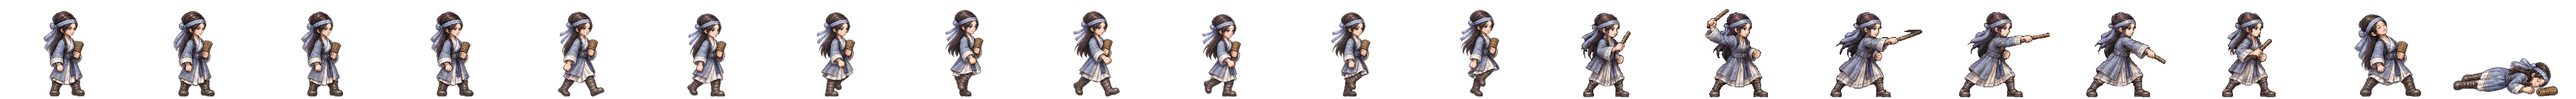
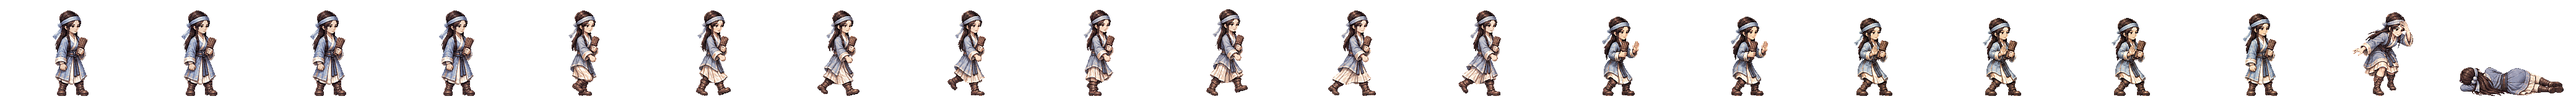
이서 시내 새 띠: 대나무 산가지 묶음을 쥐고 손바닥으로 기운을 미는 걷기·시전·개성·맞음·쓰러짐 (띠 검사 합격 · 옛 2배 띠 연결 뺌)
Claude-Session: https://claude.ai/code/session_01TRiuN7s6aDfSnaHxrkctmU

diff --git a/src/realm/data/spritePx.ts b/src/realm/data/spritePx.ts
@@ -1,3 +1,3 @@
 /** public/realm/anim-px/manifest.json 의 사본 — tools/sprite-normalize.mjs 가 만든다 (손으로 고치지 말 것). 칸 [가로, 세로] · feet = 발 줄(칸 위에서 y) · bodyPx = 서 있는 몸 키 */
 import { expandManifest } from './sprite-manifest.ts'
-export const SPRITE_PX: Readonly<Record<string, { readonly cell: readonly [number, number]; readonly feet: number; readonly bodyPx: number; readonly kind: 'general' | 'soldier' | 'folk' | 'crowd'; readonly cells: number }>> = expandManifest<{ readonly cell: readonly [number, number]; readonly feet: number; readonly bodyPx: number; readonly kind: 'general' | 'soldier' | 'folk' | 'crowd'; readonly cells: number }>([{"cell":[166,128],"feet":126,"bodyPx":124,"kind":"soldier","cells":20},{"cell":[116,128],"feet":126,"bodyPx":117,"kind":"soldier","cells":20},{"cell":[127,128],"feet":126,"bodyPx":116,"kind":"soldier","cells":20},{"cell":[269,128],"feet":126,"bodyPx":126,"kind":"soldier","cells":20},{"cell":[503,128],"feet":126,"bodyPx":127,"kind":"soldier","cells":20},{"cell":[614,128],"feet":126,"bodyPx":126,"kind":"soldier","cells":20},{"cell":[200,160],"feet":156,"bodyPx":138,"kind":"general","cells":20},{"cell":[208,160],"feet":155,"bodyPx":138,"kind":"general","cells":20},{"cell":[208,160],"feet":154,"bodyPx":138,"kind":"general","cells":20},{"cell":[304,160],"feet":155,"bodyPx":135,"kind":"general","cells":20},{"cell":[184,160],"feet":156,"bodyPx":138,"kind":"general","cells":20},{"cell":[208,160],"feet":154,"bodyPx":136,"kind":"general","cells":20},{"cell":[232,160],"feet":156,"bodyPx":138,"kind":"general","cells":20},{"cell":[208,160],"feet":156,"bodyPx":138,"kind":"general","cells":20},{"cell":[168,160],"feet":156,"bodyPx":124,"kind":"general","cells":20},{"cell":[216,160],"feet":156,"bodyPx":130,"kind":"general","cells":20},{"cell":[200,160],"feet":156,"bodyPx":116,"kind":"general","cells":20},{"cell":[192,160],"feet":156,"bodyPx":138,"kind":"general","cells":20},{"cell":[208,160],"feet":154,"bodyPx":135,"kind":"general","cells":20},{"cell":[280,160],"feet":156,"bodyPx":138,"kind":"general","cells":20},{"cell":[232,160],"feet":156,"bodyPx":134,"kind":"general","cells":20},{"cell":[144,160],"feet":156,"bodyPx":70,"kind":"general","cells":20},{"cell":[208,160],"feet":156,"bodyPx":70,"kind":"general","cells":20},{"cell":[192,160],"feet":156,"bodyPx":70,"kind":"general","cells":20},{"cell":[240,160],"feet":155,"bodyPx":138,"kind":"general","cells":20},{"cell":[192,160],"feet":156,"bodyPx":128,"kind":"general","cells":20},{"cell":[224,160],"feet":155,"bodyPx":138,"kind":"general","cells":20},{"cell":[208,160],"feet":154,"bodyPx":137,"kind":"general","cells":20},{"cell":[216,160],"feet":156,"bodyPx":138,"kind":"general","cells":20},{"cell":[208,160],"feet":156,"bodyPx":134,"kind":"general","cells":20},{"cell":[208,160],"feet":154,"bodyPx":130,"kind":"general","cells":20},{"cell":[248,160],"feet":156,"bodyPx":138,"kind":"general","cells":20},{"cell":[248,160],"feet":155,"bodyPx":138,"kind":"general","cells":20},{"cell":[192,160],"feet":155,"bodyPx":138,"kind":"general","cells":20},{"cell":[192,160],"feet":156,"bodyPx":124,"kind":"general","cells":20},{"cell":[208,160],"feet":154,"bodyPx":131,"kind":"general","cells":20},{"cell":[256,160],"feet":156,"bodyPx":138,"kind":"general","cells":20},{"cell":[240,160],"feet":156,"bodyPx":138,"kind":"general","cells":20},{"cell":[232,160],"feet":156,"bodyPx":139,"kind":"general","cells":20},{"cell":[232,160],"feet":156,"bodyPx":73,"kind":"general","cells":20},{"cell":[264,160],"feet":156,"bodyPx":138,"kind":"general","cells":20},{"cell":[224,160],"feet":156,"bodyPx":138,"kind":"general","cells":20},{"cell":[224,160],"feet":156,"bodyPx":128,"kind":"general","cells":20},{"cell":[176,160],"feet":156,"bodyPx":129,"kind":"general","cells":20},{"cell":[208,160],"feet":154,"bodyPx":139,"kind":"general","cells":20},{"cell":[232,160],"feet":155,"bodyPx":138,"kind":"general","cells":20},{"cell":[208,160],"feet":156,"bodyPx":132,"kind":"general","cells":20},{"cell":[184,160],"feet":156,"bodyPx":122,"kind":"general","cells":20},{"cell":[280,160],"feet":155,"bodyPx":133,"kind":"general","cells":20},{"cell":[176,160],"feet":156,"bodyPx":70,"kind":"general","cells":20},{"cell":[186,128],"feet":126,"bodyPx":127,"kind":"soldier","cells":20},{"cell":[298,128],"feet":126,"bodyPx":126,"kind":"soldier","cells":20},{"cell":[82,128],"feet":126,"bodyPx":114,"kind":"folk","cells":8},{"cell":[134,128],"feet":126,"bodyPx":119,"kind":"soldier","cells":20},{"cell":[380,128],"feet":126,"bodyPx":124,"kind":"soldier","cells":20},{"cell":[114,128],"feet":126,"bodyPx":115,"kind":"soldier","cells":20},{"cell":[122,128],"feet":126,"bodyPx":114,"kind":"soldier","cells":20},{"cell":[254,128],"feet":126,"bodyPx":128,"kind":"soldier","cells":20},{"cell":[438,128],"feet":126,"bodyPx":126,"kind":"soldier","cells":20},{"cell":[88,128],"feet":126,"bodyPx":113,"kind":"folk","cells":8},{"cell":[100,128],"feet":126,"bodyPx":115,"kind":"folk","cells":8},{"cell":[108,128],"feet":126,"bodyPx":115,"kind":"folk","cells":8},{"cell":[63,128],"feet":126,"bodyPx":113,"kind":"folk","cells":8},{"cell":[69,96],"feet":96,"bodyPx":96,"kind":"crowd","cells":1},{"cell":[54,96],"feet":96,"bodyPx":96,"kind":"crowd","cells":1},{"cell":[47,96],"feet":96,"bodyPx":96,"kind":"crowd","cells":1},{"cell":[49,96],"feet":96,"bodyPx":96,"kind":"crowd","cells":1},{"cell":[57,96],"feet":96,"bodyPx":96,"kind":"crowd","cells":1},{"cell":[55,96],"feet":96,"bodyPx":96,"kind":"crowd","cells":1},{"cell":[45,96],"feet":96,"bodyPx":96,"kind":"crowd","cells":1},{"cell":[53,96],"feet":96,"bodyPx":96,"kind":"crowd","cells":1},{"cell":[64,96],"feet":96,"bodyPx":96,"kind":"crowd","cells":1},{"cell":[184,160],"feet":156,"bodyPx":124,"kind":"general","cells":20},{"cell":[208,160],"feet":154,"bodyPx":134,"kind":"general","cells":20},{"cell":[224,160],"feet":156,"bodyPx":133,"kind":"general","cells":20},{"cell":[192,160],"feet":156,"bodyPx":135,"kind":"general","cells":20},{"cell":[184,160],"feet":156,"bodyPx":137,"kind":"general","cells":20},{"cell":[176,160],"feet":156,"bodyPx":130,"kind":"general","cells":20},{"cell":[216,160],"feet":156,"bodyPx":134,"kind":"general","cells":20},{"cell":[216,160],"feet":156,"bodyPx":132,"kind":"general","cells":20},{"cell":[288,160],"feet":156,"bodyPx":138,"kind":"general","cells":20},{"cell":[192,160],"feet":156,"bodyPx":118,"kind":"general","cells":20},{"cell":[208,160],"feet":154,"bodyPx":132,"kind":"general","cells":20},{"cell":[208,160],"feet":154,"bodyPx":128,"kind":"general","cells":20},{"cell":[240,160],"feet":156,"bodyPx":128,"kind":"general","cells":20},{"cell":[184,160],"feet":156,"bodyPx":132,"kind":"general","cells":20},{"cell":[208,160],"feet":156,"bodyPx":123,"kind":"general","cells":20},{"cell":[176,160],"feet":156,"bodyPx":116,"kind":"general","cells":20},{"cell":[272,160],"feet":156,"bodyPx":138,"kind":"general","cells":20},{"cell":[176,160],"feet":156,"bodyPx":138,"kind":"general","cells":20},{"cell":[176,160],"feet":156,"bodyPx":122,"kind":"general","cells":20},{"cell":[232,160],"feet":156,"bodyPx":127,"kind":"general","cells":20},{"cell":[184,160],"feet":156,"bodyPx":134,"kind":"general","cells":20},{"cell":[168,160],"feet":156,"bodyPx":138,"kind":"general","cells":20},{"cell":[176,160],"feet":156,"bodyPx":137,"kind":"general","cells":20},{"cell":[184,160],"feet":156,"bodyPx":133,"kind":"general","cells":20}],[["axe",0],["bandit-chief",1],["bandit-club",2],["boat",3],["bow",4],["crossbow",5],["gen-adogan",6],["gen-alpyeong",7],["gen-ara",8],["gen-areum",8],["gen-aryeong",9],["gen-bakdal",8],["gen-baram",8],["gen-bdanbi",10],["gen-beom",11],["gen-beombal",8],["gen-beomi",8],["gen-bira",12],["gen-biryu",13],["gen-budeul",8],["gen-byeol",8],["gen-daemusin",14],["gen-daeso",15],["gen-dallae2",10],["gen-dalli",8],["gen-damul",16],["gen-danbi",8],["gen-dangung",17],["gen-darae",18],["gen-dokmudeom",8],["gen-duman",19],["gen-eomni",8],["gen-eureum",20],["gen-g-bow",21],["gen-g-spear",22],["gen-g-sword",23],["gen-gaennae",8],["gen-gamsil",24],["gen-gaon",18],["gen-geota",13],["gen-geumbawi",10],["gen-geumha",25],["gen-goeun",13],["gen-gom",26],["gen-gomok",13],["gen-gureum",8],["gen-guryema",17],["gen-gwaeyu",12],["gen-haebi",8],["gen-haedal",6],["gen-haesol",8],["gen-halla",27],["gen-heo",8],["gen-hneoul",10],["gen-hogong",28],["gen-hojin",13],["gen-horselord",29],["gen-hwalmi",30],["gen-hyeokgeose",17],["gen-hyeopbo",6],["gen-irang",8],["gen-jibaekho",31],["gen-jinha",32],["gen-jita",33],["gen-jumong",34],["gen-keundol",7],["gen-maehwa",35],["gen-maenun",17],["gen-malgalgi",36],["gen-mari",37],["gen-maro",31],["gen-maryeo",13],["gen-mdallae",38],["gen-mir",6],["gen-mount",39],["gen-mulbeom",27],["gen-mulsae",27],["gen-musoe",28],["gen-noeul",8],["gen-nuri",40],["gen-ocheongan",41],["gen-odi",8],["gen-odogan",6],["gen-ogan",17],["gen-oi",42],["gen-olddaeso",20],["gen-onjo",43],["gen-pidogan",13],["gen-sagong",44],["gen-sdallae",6],["gen-sincheongan",8],["gen-singwigan",28],["gen-sinneoul",8],["gen-sobeol",45],["gen-soebi",6],["gen-soebo",46],["gen-soenun",44],["gen-sogeumbi",27],["gen-songbi",41],["gen-songyang",47],["gen-sori",8],["gen-soseono",48],["gen-suro",17],["gen-tahae",6],["gen-tneoul",8],["gen-w-bow",21],["gen-w-spear",49],["gen-waechief",13],["gen-wan",28],["gen-yeodogan",13],["gen-yucheongan",8],["gen-yusugan",31],["horse",50],["marine",51],["migrant",52],["militia",53],["pike",54],["pirate-captain",55],["pirate-sword",56],["shield",57],["spear",58],["villager-builder",59],["villager-farmer",60],["villager-porter",61],["villager-woman",62],["crowd-b1",63],["crowd-b2",64],["crowd-b3",65],["crowd-b4",66],["crowd-b5",67],["crowd-b6",68],["crowd-f1",63],["crowd-f2",68],["crowd-f3",69],["crowd-f4",70],["crowd-f5",63],["crowd-f6",71],["gen-dalbit",13],["gen-base-g-07-drunk-warrior",17],["gen-base-g-40-anya-adan",13],["gen-base-w-13-young-archer",8],["gen-base-g-03-sea-trader",37],["gen-base-w-10-pirate-captain",44],["gen-base-w-64-miri-dallae",44],["gen-base-g-41-goja-bau",37],["gen-base-g-42-dokro-garam",40],["gen-base-g-09-farmer-conscript",28],["gen-base-w-02-goguryeo-lady",8],["gen-base-w-17-mahan-pearl-diver",8],["gen-base-g-17-saro-isageum",46],["gen-base-g-18-daegaya-king",72],["gen-base-g-35-dabeol-dalgu",13],["gen-base-g-19-sabeol-veteran",28],["gen-base-w-23-usisan-whale-queen",8],["gen-base-g-36-gammun-gamdol",41],["gen-base-g-20-samul-sea-lord",36],["gen-base-g-37-eumjeup-jeup",10],["gen-base-g-38-chopal-palmae",17],["gen-base-w-75-daegaya-soemoe",17],["gen-base-g-45-dabeol-deulgae",10],["gen-base-g-04-jinhan-giant",13],["gen-base-g-08-veteran",13],["gen-base-w-18-jinhan-salt-widow",8],["gen-base-w-12-court-dancer",73],["gen-base-w-83-gyeonji-beodeul",74],["gen-base-w-05-baekje-queen",75],["gen-base-w-21-baekje-court-dancer",10],["gen-base-g-01-master-smith",76],["gen-base-g-93-jomun-solgae",77],["gen-base-g-57-bihwa-neup",37],["gen-base-w-72-eumjeup-beol",8],["gen-base-w-102-garak-dana",44],["gen-base-g-68-baekje-onnuri",13],["gen-base-w-27-mokji-jinha",6],["gen-base-g-22-ungcheon-gomnae",6],["gen-base-g-23-sangdang-soedal",13],["gen-base-g-24-wansan-onsan",6],["gen-base-g-25-balla-keunmoe",28],["gen-base-g-61-heomcheuk-bawi",28],["gen-base-g-88-wander-soeul",41],["gen-base-w-14-feast-spy",8],["gen-base-g-12-silla-youth",78],["gen-base-w-08-mahan-warrior",8],["gen-base-g-62-beonye-hanul",37],["gen-base-g-63-heomcheuk-beogeum",13],["gen-base-g-84-wander-seoneul",13],["gen-base-w-50-siljik-mulga",28],["gen-base-g-46-uga-nureongso",28],["gen-base-w-80-usan-gangchi",44],["gen-base-g-47-guga-sanyanggae",28],["gen-base-w-76-gampyeong-baetsagong",8],["gen-base-g-05-mahan-chieftain",79],["gen-base-g-58-usan-uhae",13],["gen-base-g-27-maek-maekdol",13],["gen-base-w-53-hwanna-gabi",44],["gen-base-w-29-golpo-janmul",31],["gen-base-g-53-baekje-haeru",6],["gen-base-w-71-yeonna-neoul",8],["gen-base-w-79-yangmaek-solmae",8],["gen-base-w-34-chopal-deulme",8],["gen-base-g-44-maga-malgup",80],["gen-base-w-31-dabeol-dalbit",44],["gen-base-g-51-biryuna-mulgyeol",41],["gen-base-g-48-gwanna-musoe",13],["gen-base-g-32-uga-sodu",12],["gen-base-g-49-goguryeo-sona",81],["gen-base-g-30-gwanna-soemoe",41],["gen-base-g-52-tamna-oreum",10],["gen-base-g-29-yeonna-myeongsol",34],["gen-base-w-56-dongokjeo-sogeum",73],["gen-base-g-54-mokji-mahan",12],["gen-base-g-33-jeoga-metdol",17],["gen-base-w-36-baekje-maena",8],["gen-base-w-38-sangdang-bulmae",6],["gen-base-w-39-gosaburi-galmae",8],["gen-base-w-40-mujin-munui",82],["gen-base-w-41-hwanna-beodeul",83],["gen-base-w-43-uga-nuri",36],["gen-base-w-45-tamna-oreumbi",10],["gen-base-g-60-golbeol-golgae",10],["gen-base-g-61-apdok-ap",28],["gen-base-g-62-gammun-gamnamu",6],["gen-base-g-63-chopal-yeoul",31],["gen-base-g-64-michuhol-sogeumkkun",37],["gen-base-g-65-sangdang-soemangchi",41],["gen-base-g-66-geonma-malbalgup",84],["gen-base-g-67-gosaburi-buri",85],["gen-base-g-68-mujin-bitgoeul",10],["gen-base-g-69-goryong-yong",41],["gen-base-g-70-siljik-pado",37],["gen-base-w-81-byeokjin-byeolbit",8],["gen-base-w-46-geonma-maru",8],["gen-base-w-48-mujin-mudeung",8],["gen-base-g-26-gampyeong-gaetbeol",12],["gen-base-g-60-eupcha-hangyeol",86],["gen-base-g-15-shaman-man",28],["gen-base-g-85-wander-ure",31],["gen-base-g-43-hwanna-amnok",13],["gen-base-g-50-bullae-gwaha",75],["gen-base-g-55-saro-bakdal",13],["gen-base-g-56-haseulla-gwahama",6],["gen-base-w-06-buyeo-huntress",27],["gen-base-w-22-dongye-tiger-huntress",8],["gen-base-w-25-bihwa-priestess",8],["gen-base-w-24-apdok-queen",8],["gen-base-w-61-iseo-sinae",13],["gen-base-w-26-iseo-tomboy-general",8],["gen-base-g-59-yangmaek-maekson",87],["gen-aw1-haebi",41],["gen-aw1-soseono",88],["gen-aw1-gamsil",10],["gen-aw1-mir",89],["gen-aw1-dangung",6],["gen-aw1-ara",41],["gen-aw1-jumong",90],["gen-aw1-onjo",91],["gen-aw1-base-w-83-gyeonji-beodeul",17],["gen-aw1-heo",40],["gen-aw1-base-g-38-chopal-palmae",6],["gen-aw1-base-w-25-bihwa-priestess",92],["gen-aw1-sori",93],["gen-aw1-gomok",6],["gen-aw1-irang",17],["gen-aw1-budeul",93],["gen-aw1-gom",37],["gen-aw1-sdallae",6],["gen-aw1-base-w-13-young-archer",6],["gen-aw1-base-w-36-baekje-maena",94],["gen-aw1-base-g-09-farmer-conscript",40],["gen-aw1-base-w-02-goguryeo-lady",95],["gen-aw1-haedal",10],["gen-aw1-hogong",6],["gen-aw1-maehwa",89],["gen-aw1-base-w-06-buyeo-huntress",12],["gen-aw1-base-w-08-mahan-warrior",41],["gen-aw1-base-w-29-golpo-janmul",41],["gen-aw1-base-w-31-dabeol-dalbit",17],["gen-aw1-base-w-38-sangdang-bulmae",93],["gen-aw1-bira",28],["gen-aw1-base-w-53-hwanna-gabi",93],["gen-aw1-base-w-56-dongokjeo-sogeum",89],["gen-aw1-base-w-72-eumjeup-beol",17],["gen-aw1-bdanbi",93],["gen-aw1-beom",10],["gen-aw1-beombal",10],["gen-aw1-byeol",17],["gen-aw1-dalli",89],["gen-aw1-malgalgi",31],["gen-aw1-sincheongan",28]])
+export const SPRITE_PX: Readonly<Record<string, { readonly cell: readonly [number, number]; readonly feet: number; readonly bodyPx: number; readonly kind: 'general' | 'soldier' | 'folk' | 'crowd'; readonly cells: number }>> = expandManifest<{ readonly cell: readonly [number, number]; readonly feet: number; readonly bodyPx: number; readonly kind: 'general' | 'soldier' | 'folk' | 'crowd'; readonly cells: number }>([{"cell":[166,128],"feet":126,"bodyPx":124,"kind":"soldier","cells":20},{"cell":[116,128],"feet":126,"bodyPx":117,"kind":"soldier","cells":20},{"cell":[127,128],"feet":126,"bodyPx":116,"kind":"soldier","cells":20},{"cell":[269,128],"feet":126,"bodyPx":126,"kind":"soldier","cells":20},{"cell":[503,128],"feet":126,"bodyPx":127,"kind":"soldier","cells":20},{"cell":[614,128],"feet":126,"bodyPx":126,"kind":"soldier","cells":20},{"cell":[200,160],"feet":156,"bodyPx":138,"kind":"general","cells":20},{"cell":[208,160],"feet":155,"bodyPx":138,"kind":"general","cells":20},{"cell":[208,160],"feet":154,"bodyPx":138,"kind":"general","cells":20},{"cell":[304,160],"feet":155,"bodyPx":135,"kind":"general","cells":20},{"cell":[184,160],"feet":156,"bodyPx":138,"kind":"general","cells":20},{"cell":[208,160],"feet":154,"bodyPx":136,"kind":"general","cells":20},{"cell":[232,160],"feet":156,"bodyPx":138,"kind":"general","cells":20},{"cell":[208,160],"feet":156,"bodyPx":138,"kind":"general","cells":20},{"cell":[168,160],"feet":156,"bodyPx":124,"kind":"general","cells":20},{"cell":[216,160],"feet":156,"bodyPx":130,"kind":"general","cells":20},{"cell":[200,160],"feet":156,"bodyPx":116,"kind":"general","cells":20},{"cell":[192,160],"feet":156,"bodyPx":138,"kind":"general","cells":20},{"cell":[208,160],"feet":154,"bodyPx":135,"kind":"general","cells":20},{"cell":[280,160],"feet":156,"bodyPx":138,"kind":"general","cells":20},{"cell":[232,160],"feet":156,"bodyPx":134,"kind":"general","cells":20},{"cell":[144,160],"feet":156,"bodyPx":70,"kind":"general","cells":20},{"cell":[208,160],"feet":156,"bodyPx":70,"kind":"general","cells":20},{"cell":[192,160],"feet":156,"bodyPx":70,"kind":"general","cells":20},{"cell":[240,160],"feet":155,"bodyPx":138,"kind":"general","cells":20},{"cell":[192,160],"feet":156,"bodyPx":128,"kind":"general","cells":20},{"cell":[224,160],"feet":155,"bodyPx":138,"kind":"general","cells":20},{"cell":[208,160],"feet":154,"bodyPx":137,"kind":"general","cells":20},{"cell":[216,160],"feet":156,"bodyPx":138,"kind":"general","cells":20},{"cell":[208,160],"feet":156,"bodyPx":134,"kind":"general","cells":20},{"cell":[208,160],"feet":154,"bodyPx":130,"kind":"general","cells":20},{"cell":[248,160],"feet":156,"bodyPx":138,"kind":"general","cells":20},{"cell":[248,160],"feet":155,"bodyPx":138,"kind":"general","cells":20},{"cell":[192,160],"feet":155,"bodyPx":138,"kind":"general","cells":20},{"cell":[192,160],"feet":156,"bodyPx":124,"kind":"general","cells":20},{"cell":[208,160],"feet":154,"bodyPx":131,"kind":"general","cells":20},{"cell":[256,160],"feet":156,"bodyPx":138,"kind":"general","cells":20},{"cell":[240,160],"feet":156,"bodyPx":138,"kind":"general","cells":20},{"cell":[232,160],"feet":156,"bodyPx":139,"kind":"general","cells":20},{"cell":[232,160],"feet":156,"bodyPx":73,"kind":"general","cells":20},{"cell":[264,160],"feet":156,"bodyPx":138,"kind":"general","cells":20},{"cell":[224,160],"feet":156,"bodyPx":138,"kind":"general","cells":20},{"cell":[224,160],"feet":156,"bodyPx":128,"kind":"general","cells":20},{"cell":[176,160],"feet":156,"bodyPx":129,"kind":"general","cells":20},{"cell":[208,160],"feet":154,"bodyPx":139,"kind":"general","cells":20},{"cell":[232,160],"feet":155,"bodyPx":138,"kind":"general","cells":20},{"cell":[208,160],"feet":156,"bodyPx":132,"kind":"general","cells":20},{"cell":[184,160],"feet":156,"bodyPx":122,"kind":"general","cells":20},{"cell":[280,160],"feet":155,"bodyPx":133,"kind":"general","cells":20},{"cell":[176,160],"feet":156,"bodyPx":70,"kind":"general","cells":20},{"cell":[186,128],"feet":126,"bodyPx":127,"kind":"soldier","cells":20},{"cell":[298,128],"feet":126,"bodyPx":126,"kind":"soldier","cells":20},{"cell":[82,128],"feet":126,"bodyPx":114,"kind":"folk","cells":8},{"cell":[134,128],"feet":126,"bodyPx":119,"kind":"soldier","cells":20},{"cell":[380,128],"feet":126,"bodyPx":124,"kind":"soldier","cells":20},{"cell":[114,128],"feet":126,"bodyPx":115,"kind":"soldier","cells":20},{"cell":[122,128],"feet":126,"bodyPx":114,"kind":"soldier","cells":20},{"cell":[254,128],"feet":126,"bodyPx":128,"kind":"soldier","cells":20},{"cell":[438,128],"feet":126,"bodyPx":126,"kind":"soldier","cells":20},{"cell":[88,128],"feet":126,"bodyPx":113,"kind":"folk","cells":8},{"cell":[100,128],"feet":126,"bodyPx":115,"kind":"folk","cells":8},{"cell":[108,128],"feet":126,"bodyPx":115,"kind":"folk","cells":8},{"cell":[63,128],"feet":126,"bodyPx":113,"kind":"folk","cells":8},{"cell":[69,96],"feet":96,"bodyPx":96,"kind":"crowd","cells":1},{"cell":[54,96],"feet":96,"bodyPx":96,"kind":"crowd","cells":1},{"cell":[47,96],"feet":96,"bodyPx":96,"kind":"crowd","cells":1},{"cell":[49,96],"feet":96,"bodyPx":96,"kind":"crowd","cells":1},{"cell":[57,96],"feet":96,"bodyPx":96,"kind":"crowd","cells":1},{"cell":[55,96],"feet":96,"bodyPx":96,"kind":"crowd","cells":1},{"cell":[45,96],"feet":96,"bodyPx":96,"kind":"crowd","cells":1},{"cell":[53,96],"feet":96,"bodyPx":96,"kind":"crowd","cells":1},{"cell":[64,96],"feet":96,"bodyPx":96,"kind":"crowd","cells":1},{"cell":[184,160],"feet":156,"bodyPx":124,"kind":"general","cells":20},{"cell":[208,160],"feet":154,"bodyPx":134,"kind":"general","cells":20},{"cell":[224,160],"feet":156,"bodyPx":133,"kind":"general","cells":20},{"cell":[192,160],"feet":156,"bodyPx":135,"kind":"general","cells":20},{"cell":[184,160],"feet":156,"bodyPx":137,"kind":"general","cells":20},{"cell":[176,160],"feet":156,"bodyPx":130,"kind":"general","cells":20},{"cell":[216,160],"feet":156,"bodyPx":134,"kind":"general","cells":20},{"cell":[216,160],"feet":156,"bodyPx":132,"kind":"general","cells":20},{"cell":[288,160],"feet":156,"bodyPx":138,"kind":"general","cells":20},{"cell":[192,160],"feet":156,"bodyPx":118,"kind":"general","cells":20},{"cell":[208,160],"feet":154,"bodyPx":132,"kind":"general","cells":20},{"cell":[208,160],"feet":154,"bodyPx":128,"kind":"general","cells":20},{"cell":[240,160],"feet":156,"bodyPx":128,"kind":"general","cells":20},{"cell":[184,160],"feet":156,"bodyPx":132,"kind":"general","cells":20},{"cell":[208,160],"feet":156,"bodyPx":123,"kind":"general","cells":20},{"cell":[176,160],"feet":156,"bodyPx":116,"kind":"general","cells":20},{"cell":[272,160],"feet":156,"bodyPx":138,"kind":"general","cells":20},{"cell":[176,160],"feet":156,"bodyPx":138,"kind":"general","cells":20},{"cell":[176,160],"feet":156,"bodyPx":122,"kind":"general","cells":20},{"cell":[232,160],"feet":156,"bodyPx":127,"kind":"general","cells":20},{"cell":[184,160],"feet":156,"bodyPx":134,"kind":"general","cells":20},{"cell":[168,160],"feet":156,"bodyPx":138,"kind":"general","cells":20},{"cell":[176,160],"feet":156,"bodyPx":137,"kind":"general","cells":20},{"cell":[184,160],"feet":156,"bodyPx":133,"kind":"general","cells":20}],[["axe",0],["bandit-chief",1],["bandit-club",2],["boat",3],["bow",4],["crossbow",5],["gen-adogan",6],["gen-alpyeong",7],["gen-ara",8],["gen-areum",8],["gen-aryeong",9],["gen-bakdal",8],["gen-baram",8],["gen-bdanbi",10],["gen-beom",11],["gen-beombal",8],["gen-beomi",8],["gen-bira",12],["gen-biryu",13],["gen-budeul",8],["gen-byeol",8],["gen-daemusin",14],["gen-daeso",15],["gen-dallae2",10],["gen-dalli",8],["gen-damul",16],["gen-danbi",8],["gen-dangung",17],["gen-darae",18],["gen-dokmudeom",8],["gen-duman",19],["gen-eomni",8],["gen-eureum",20],["gen-g-bow",21],["gen-g-spear",22],["gen-g-sword",23],["gen-gaennae",8],["gen-gamsil",24],["gen-gaon",18],["gen-geota",13],["gen-geumbawi",10],["gen-geumha",25],["gen-goeun",13],["gen-gom",26],["gen-gomok",13],["gen-gureum",8],["gen-guryema",17],["gen-gwaeyu",12],["gen-haebi",8],["gen-haedal",6],["gen-haesol",8],["gen-halla",27],["gen-heo",8],["gen-hneoul",10],["gen-hogong",28],["gen-hojin",13],["gen-horselord",29],["gen-hwalmi",30],["gen-hyeokgeose",17],["gen-hyeopbo",6],["gen-irang",8],["gen-jibaekho",31],["gen-jinha",32],["gen-jita",33],["gen-jumong",34],["gen-keundol",7],["gen-maehwa",35],["gen-maenun",17],["gen-malgalgi",36],["gen-mari",37],["gen-maro",31],["gen-maryeo",13],["gen-mdallae",38],["gen-mir",6],["gen-mount",39],["gen-mulbeom",27],["gen-mulsae",27],["gen-musoe",28],["gen-noeul",8],["gen-nuri",40],["gen-ocheongan",41],["gen-odi",8],["gen-odogan",6],["gen-ogan",17],["gen-oi",42],["gen-olddaeso",20],["gen-onjo",43],["gen-pidogan",13],["gen-sagong",44],["gen-sdallae",6],["gen-sincheongan",8],["gen-singwigan",28],["gen-sinneoul",8],["gen-sobeol",45],["gen-soebi",6],["gen-soebo",46],["gen-soenun",44],["gen-sogeumbi",27],["gen-songbi",41],["gen-songyang",47],["gen-sori",8],["gen-soseono",48],["gen-suro",17],["gen-tahae",6],["gen-tneoul",8],["gen-w-bow",21],["gen-w-spear",49],["gen-waechief",13],["gen-wan",28],["gen-yeodogan",13],["gen-yucheongan",8],["gen-yusugan",31],["horse",50],["marine",51],["migrant",52],["militia",53],["pike",54],["pirate-captain",55],["pirate-sword",56],["shield",57],["spear",58],["villager-builder",59],["villager-farmer",60],["villager-porter",61],["villager-woman",62],["crowd-b1",63],["crowd-b2",64],["crowd-b3",65],["crowd-b4",66],["crowd-b5",67],["crowd-b6",68],["crowd-f1",63],["crowd-f2",68],["crowd-f3",69],["crowd-f4",70],["crowd-f5",63],["crowd-f6",71],["gen-dalbit",13],["gen-base-g-07-drunk-warrior",17],["gen-base-g-40-anya-adan",13],["gen-base-w-13-young-archer",8],["gen-base-g-03-sea-trader",37],["gen-base-w-10-pirate-captain",44],["gen-base-w-64-miri-dallae",44],["gen-base-g-41-goja-bau",37],["gen-base-g-42-dokro-garam",40],["gen-base-g-09-farmer-conscript",28],["gen-base-w-02-goguryeo-lady",8],["gen-base-w-17-mahan-pearl-diver",8],["gen-base-g-17-saro-isageum",46],["gen-base-g-18-daegaya-king",72],["gen-base-g-35-dabeol-dalgu",13],["gen-base-g-19-sabeol-veteran",28],["gen-base-w-23-usisan-whale-queen",8],["gen-base-g-36-gammun-gamdol",41],["gen-base-g-20-samul-sea-lord",36],["gen-base-g-37-eumjeup-jeup",10],["gen-base-g-38-chopal-palmae",17],["gen-base-w-75-daegaya-soemoe",17],["gen-base-g-45-dabeol-deulgae",10],["gen-base-g-04-jinhan-giant",13],["gen-base-g-08-veteran",13],["gen-base-w-18-jinhan-salt-widow",8],["gen-base-w-12-court-dancer",73],["gen-base-w-83-gyeonji-beodeul",74],["gen-base-w-05-baekje-queen",75],["gen-base-w-21-baekje-court-dancer",10],["gen-base-g-01-master-smith",76],["gen-base-g-93-jomun-solgae",77],["gen-base-g-57-bihwa-neup",37],["gen-base-w-72-eumjeup-beol",8],["gen-base-w-102-garak-dana",44],["gen-base-g-68-baekje-onnuri",13],["gen-base-w-27-mokji-jinha",6],["gen-base-g-22-ungcheon-gomnae",6],["gen-base-g-23-sangdang-soedal",13],["gen-base-g-24-wansan-onsan",6],["gen-base-g-25-balla-keunmoe",28],["gen-base-g-61-heomcheuk-bawi",28],["gen-base-g-88-wander-soeul",41],["gen-base-w-14-feast-spy",8],["gen-base-g-12-silla-youth",78],["gen-base-w-08-mahan-warrior",8],["gen-base-g-62-beonye-hanul",37],["gen-base-g-63-heomcheuk-beogeum",13],["gen-base-g-84-wander-seoneul",13],["gen-base-w-50-siljik-mulga",28],["gen-base-g-46-uga-nureongso",28],["gen-base-w-80-usan-gangchi",44],["gen-base-g-47-guga-sanyanggae",28],["gen-base-w-76-gampyeong-baetsagong",8],["gen-base-g-05-mahan-chieftain",79],["gen-base-g-58-usan-uhae",13],["gen-base-g-27-maek-maekdol",13],["gen-base-w-53-hwanna-gabi",44],["gen-base-w-29-golpo-janmul",31],["gen-base-g-53-baekje-haeru",6],["gen-base-w-71-yeonna-neoul",8],["gen-base-w-79-yangmaek-solmae",8],["gen-base-w-34-chopal-deulme",8],["gen-base-g-44-maga-malgup",80],["gen-base-w-31-dabeol-dalbit",44],["gen-base-g-51-biryuna-mulgyeol",41],["gen-base-g-48-gwanna-musoe",13],["gen-base-g-32-uga-sodu",12],["gen-base-g-49-goguryeo-sona",81],["gen-base-g-30-gwanna-soemoe",41],["gen-base-g-52-tamna-oreum",10],["gen-base-g-29-yeonna-myeongsol",34],["gen-base-w-56-dongokjeo-sogeum",73],["gen-base-g-54-mokji-mahan",12],["gen-base-g-33-jeoga-metdol",17],["gen-base-w-36-baekje-maena",8],["gen-base-w-38-sangdang-bulmae",6],["gen-base-w-39-gosaburi-galmae",8],["gen-base-w-40-mujin-munui",82],["gen-base-w-41-hwanna-beodeul",83],["gen-base-w-43-uga-nuri",36],["gen-base-w-45-tamna-oreumbi",10],["gen-base-g-60-golbeol-golgae",10],["gen-base-g-61-apdok-ap",28],["gen-base-g-62-gammun-gamnamu",6],["gen-base-g-63-chopal-yeoul",31],["gen-base-g-64-michuhol-sogeumkkun",37],["gen-base-g-65-sangdang-soemangchi",41],["gen-base-g-66-geonma-malbalgup",84],["gen-base-g-67-gosaburi-buri",85],["gen-base-g-68-mujin-bitgoeul",10],["gen-base-g-69-goryong-yong",41],["gen-base-g-70-siljik-pado",37],["gen-base-w-81-byeokjin-byeolbit",8],["gen-base-w-46-geonma-maru",8],["gen-base-w-48-mujin-mudeung",8],["gen-base-g-26-gampyeong-gaetbeol",12],["gen-base-g-60-eupcha-hangyeol",86],["gen-base-g-15-shaman-man",28],["gen-base-g-85-wander-ure",31],["gen-base-g-43-hwanna-amnok",13],["gen-base-g-50-bullae-gwaha",75],["gen-base-g-55-saro-bakdal",13],["gen-base-g-56-haseulla-gwahama",6],["gen-base-w-06-buyeo-huntress",27],["gen-base-w-22-dongye-tiger-huntress",8],["gen-base-w-25-bihwa-priestess",8],["gen-base-w-24-apdok-queen",8],["gen-base-w-61-iseo-sinae",8],["gen-base-w-26-iseo-tomboy-general",8],["gen-base-g-59-yangmaek-maekson",87],["gen-aw1-haebi",41],["gen-aw1-soseono",88],["gen-aw1-gamsil",10],["gen-aw1-mir",89],["gen-aw1-dangung",6],["gen-aw1-ara",41],["gen-aw1-jumong",90],["gen-aw1-onjo",91],["gen-aw1-base-w-83-gyeonji-beodeul",17],["gen-aw1-heo",40],["gen-aw1-base-g-38-chopal-palmae",6],["gen-aw1-base-w-25-bihwa-priestess",92],["gen-aw1-sori",93],["gen-aw1-gomok",6],["gen-aw1-irang",17],["gen-aw1-budeul",93],["gen-aw1-gom",37],["gen-aw1-sdallae",6],["gen-aw1-base-w-13-young-archer",6],["gen-aw1-base-w-36-baekje-maena",94],["gen-aw1-base-g-09-farmer-conscript",40],["gen-aw1-base-w-02-goguryeo-lady",95],["gen-aw1-haedal",10],["gen-aw1-hogong",6],["gen-aw1-maehwa",89],["gen-aw1-base-w-06-buyeo-huntress",12],["gen-aw1-base-w-08-mahan-warrior",41],["gen-aw1-base-w-29-golpo-janmul",41],["gen-aw1-base-w-31-dabeol-dalbit",17],["gen-aw1-base-w-38-sangdang-bulmae",93],["gen-aw1-bira",28],["gen-aw1-base-w-53-hwanna-gabi",93],["gen-aw1-base-w-56-dongokjeo-sogeum",89],["gen-aw1-base-w-72-eumjeup-beol",17],["gen-aw1-bdanbi",93],["gen-aw1-beom",10],["gen-aw1-beombal",10],["gen-aw1-byeol",17],["gen-aw1-dalli",89],["gen-aw1-malgalgi",31],["gen-aw1-sincheongan",28]])

diff --git a/src/duel/view.ts b/src/duel/view.ts
@@ -100,7 +100,7 @@ const crowdFront = [1, 2, 3, 4, 5, 6].map((i) => img(`realm/duel/crowd/b${i}.png
 const crowdReady = (set: HTMLImageElement[]): boolean => set.every((im) => im.complete && im.naturalWidth > 0)
 const pxMode = cfg.px !== false && params.get('px') !== '0'
 /** 겨루기 전용 옛 띠(duel/sprites) 대신 열전과 같은 도트 띠(anim-px)를 쓰는 장수 — 두 판에서 같은 모습 · 서기 계획·쓰러지는 칸도 같다 (11-23 범 · 매화 · 달빛 · 11-24 해비 · 아룸) */
-const PX_DUEL: ReadonlySet<string> = new Set(['beom', 'maehwa', 'base-w-31-dabeol-dalbit', 'haebi', 'areum', 'base-w-13-young-archer', 'base-w-10-pirate-captain', 'base-w-17-mahan-pearl-diver', 'base-w-06-buyeo-huntress', 'base-w-64-miri-dallae', 'ara', 'base-w-22-dongye-tiger-huntress', 'noeul', 'sagong', 'sinneoul', 'heo', 'base-w-08-mahan-warrior', 'base-w-23-usisan-whale-queen', 'base-w-26-iseo-tomboy-general', 'base-w-72-eumjeup-beol', 'tneoul', 'odi', 'base-w-76-gampyeong-baetsagong', 'base-w-34-chopal-deulme', 'base-w-102-garak-dana', 'base-w-36-baekje-maena', 'base-w-56-dongokjeo-sogeum', 'budeul', 'base-w-53-hwanna-gabi', 'base-w-18-jinhan-salt-widow', 'beombal', 'irang', 'sogeumbi', 'baram', 'byeol', 'base-w-71-yeonna-neoul', 'base-w-39-gosaburi-galmae', 'base-w-41-hwanna-beodeul', 'base-w-79-yangmaek-solmae', 'base-w-46-geonma-maru', 'base-w-48-mujin-mudeung', 'base-w-80-usan-gangchi', 'base-w-81-byeokjin-byeolbit', 'beomi', 'danbi', 'dalli', 'gureum', 'haesol', 'soenun', 'eomni', 'mulbeom', 'mulsae', 'bakdal', 'darae', 'sori', 'base-w-12-court-dancer', 'hwalmi', 'gaennae', 'dokmudeom', 'base-w-14-feast-spy', 'base-w-25-bihwa-priestess', 'sincheongan', 'base-w-40-mujin-munui', 'halla', 'yucheongan', 'base-w-02-goguryeo-lady', 'gaon', 'base-w-24-apdok-queen'])
+const PX_DUEL: ReadonlySet<string> = new Set(['beom', 'maehwa', 'base-w-31-dabeol-dalbit', 'haebi', 'areum', 'base-w-13-young-archer', 'base-w-10-pirate-captain', 'base-w-17-mahan-pearl-diver', 'base-w-06-buyeo-huntress', 'base-w-64-miri-dallae', 'ara', 'base-w-22-dongye-tiger-huntress', 'noeul', 'sagong', 'sinneoul', 'heo', 'base-w-08-mahan-warrior', 'base-w-23-usisan-whale-queen', 'base-w-26-iseo-tomboy-general', 'base-w-72-eumjeup-beol', 'tneoul', 'odi', 'base-w-76-gampyeong-baetsagong', 'base-w-34-chopal-deulme', 'base-w-102-garak-dana', 'base-w-36-baekje-maena', 'base-w-56-dongokjeo-sogeum', 'budeul', 'base-w-53-hwanna-gabi', 'base-w-18-jinhan-salt-widow', 'beombal', 'irang', 'sogeumbi', 'baram', 'byeol', 'base-w-71-yeonna-neoul', 'base-w-39-gosaburi-galmae', 'base-w-41-hwanna-beodeul', 'base-w-79-yangmaek-solmae', 'base-w-46-geonma-maru', 'base-w-48-mujin-mudeung', 'base-w-80-usan-gangchi', 'base-w-81-byeokjin-byeolbit', 'beomi', 'danbi', 'dalli', 'gureum', 'haesol', 'soenun', 'eomni', 'mulbeom', 'mulsae', 'bakdal', 'darae', 'sori', 'base-w-12-court-dancer', 'hwalmi', 'gaennae', 'dokmudeom', 'base-w-14-feast-spy', 'base-w-25-bihwa-priestess', 'sincheongan', 'base-w-40-mujin-munui', 'halla', 'yucheongan', 'base-w-02-goguryeo-lady', 'gaon', 'base-w-24-apdok-queen', 'base-w-61-iseo-sinae'])
 /** 띠 그림 — 기본은 anim-px(도트 규격) 먼저, 없으면 옛 띠로 (img 의 onerror 가 갈아 끼운다) */
 const strip = (s: string): HTMLImageElement => pxMode
   ? DUEL_ATLASES[s] !== undefined && !PX_DUEL.has(s) ? img(`realm/duel/sprites/gen-${s}.png`, `realm/anim-px/gen-${s}.png`)

diff --git a/src/tune/params.ts b/src/tune/params.ts
@@ -1528,6 +1528,7 @@ export const HAEBI_IDLE = {
     'base-w-02-goguryeo-lady': { cells: 38, base: [0, 1], hold: 2.4, fall: [18, 20, 21, 19], quirk: [22, 23, 24, 25], quirkTimes: [.3, .32, .4, .28], attack: { cells: [26, 27, 28, 29, 30, 31, 32, 33], times: [.09, .08, .30, .05, .15, .07, .08, .12], hit: 4 }, hurt: [34, 35], rise: [36, 37], xGeom: { h: 224, root: 92, foot: 216 } },
     gaon: { cells: 38, base: [0, 1], hold: 2.4, fall: [18, 20, 21, 19], quirk: [22, 23, 24, 25], quirkTimes: [.3, .32, .4, .28], attack: { cells: [26, 27, 28, 29, 30, 31, 32, 33], times: [.09, .08, .30, .05, .15, .07, .08, .12], hit: 4 }, hurt: [34, 35], rise: [36, 37], xGeom: { h: 224, root: 92, foot: 216 } },
     'base-w-24-apdok-queen': { cells: 38, base: [0, 1], hold: 2.4, fall: [18, 20, 21, 19], quirk: [22, 23, 24, 25], quirkTimes: [.3, .32, .4, .28], attack: { cells: [26, 27, 28, 29, 30, 31, 32, 33], times: [.09, .08, .30, .05, .15, .07, .08, .12], hit: 4 }, hurt: [34, 35], rise: [36, 37], xGeom: { h: 224, root: 92, foot: 216 } },
+    'base-w-61-iseo-sinae': { cells: 38, base: [0, 1], hold: 2.4, fall: [18, 20, 21, 19], quirk: [22, 23, 24, 25], quirkTimes: [.3, .32, .4, .28], attack: { cells: [26, 27, 28, 29, 30, 31, 32, 33], times: [.09, .08, .30, .05, .15, .07, .08, .12], hit: 4 }, hurt: [34, 35], rise: [36, 37], xGeom: { h: 224, root: 92, foot: 216 } },
   },
 } as const
 export const HAEBI_ANIM = {

diff --git a/src/raid/hero-hd.ts b/src/raid/hero-hd.ts
@@ -7,7 +7,6 @@ export const HERO_HD: Readonly<Record<string, string>> = {
   'anim-px/gen-base-g-61-heomcheuk-bawi.png': 'anim-px/gen-base-g-61-heomcheuk-bawi_hd.png',
   'anim-px/gen-base-w-83-gyeonji-beodeul.png': 'anim-px/gen-base-w-83-gyeonji-beodeul_hd.png',
   'anim-px/gen-base-w-75-daegaya-soemoe.png': 'anim-px/gen-base-w-75-daegaya-soemoe_hd.png',
-  'anim-px/gen-base-w-61-iseo-sinae.png': 'anim-px/gen-base-w-61-iseo-sinae_hd.png',
   'anim-px/gen-base-w-50-siljik-mulga.png': 'anim-px/gen-base-w-50-siljik-mulga_hd.png',
   'anim-px/gen-base-w-45-tamna-oreumbi.png': 'anim-px/gen-base-w-45-tamna-oreumbi_hd.png',
   'anim-px/gen-base-w-43-uga-nuri.png': 'anim-px/gen-base-w-43-uga-nuri_hd.png',
